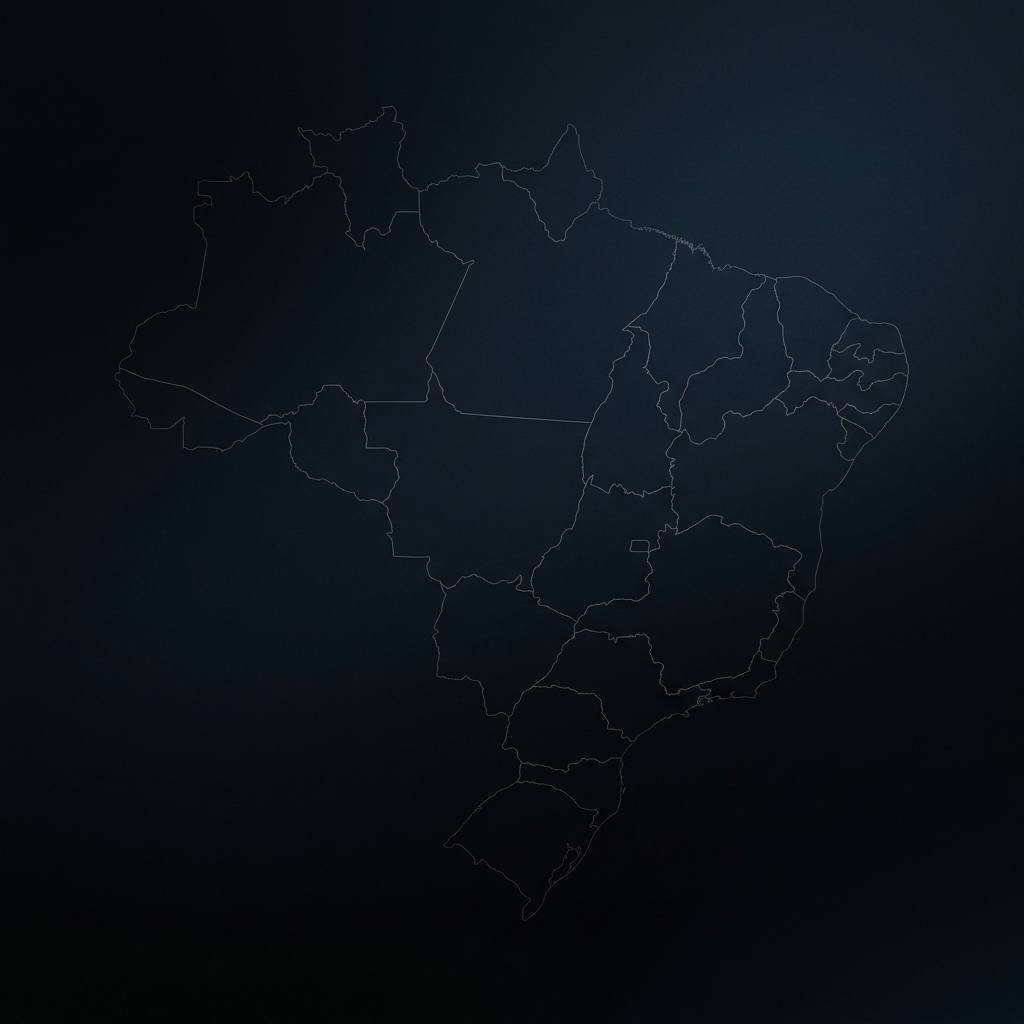
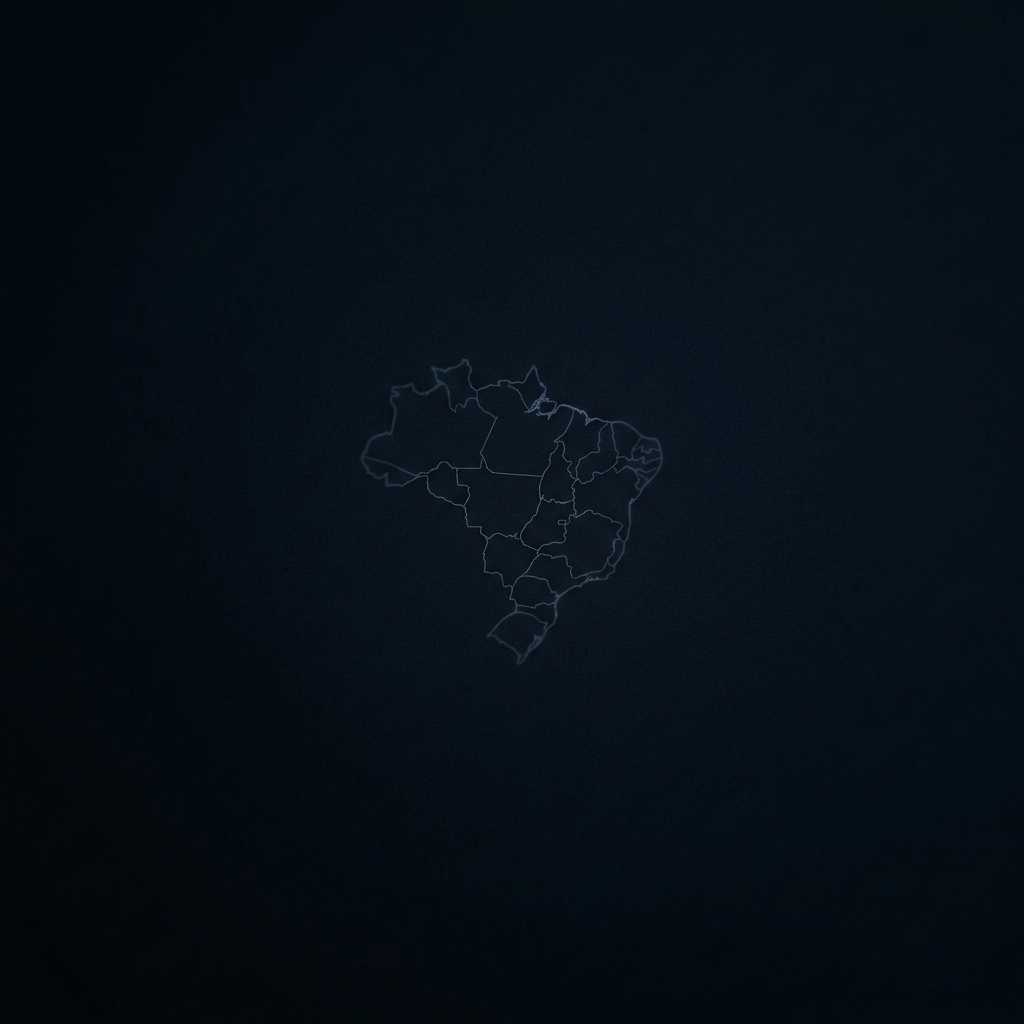
ui: alarga modal do login e ajusta tamanho e recorte do mapa

diff --git a/app/login/page.tsx b/app/login/page.tsx
@@ -43,7 +43,7 @@ export default function LoginPage() {
         backgroundSize: 'cover'
       }}
     >
-      <div className="flex flex-col w-full max-w-[600px] rounded-[24px] shadow-[0_30px_60px_rgba(0,0,0,0.6)] overflow-hidden border border-white/10 backdrop-blur-[20px] bg-[#0a0c14]/70">
+      <div className="flex flex-col w-full max-w-[700px] rounded-[24px] shadow-[0_30px_60px_rgba(0,0,0,0.6)] overflow-hidden border border-white/10 backdrop-blur-[20px] bg-[#0a0c14]/70">
         
         <div className="p-8 md:p-10 flex flex-col justify-center">
           